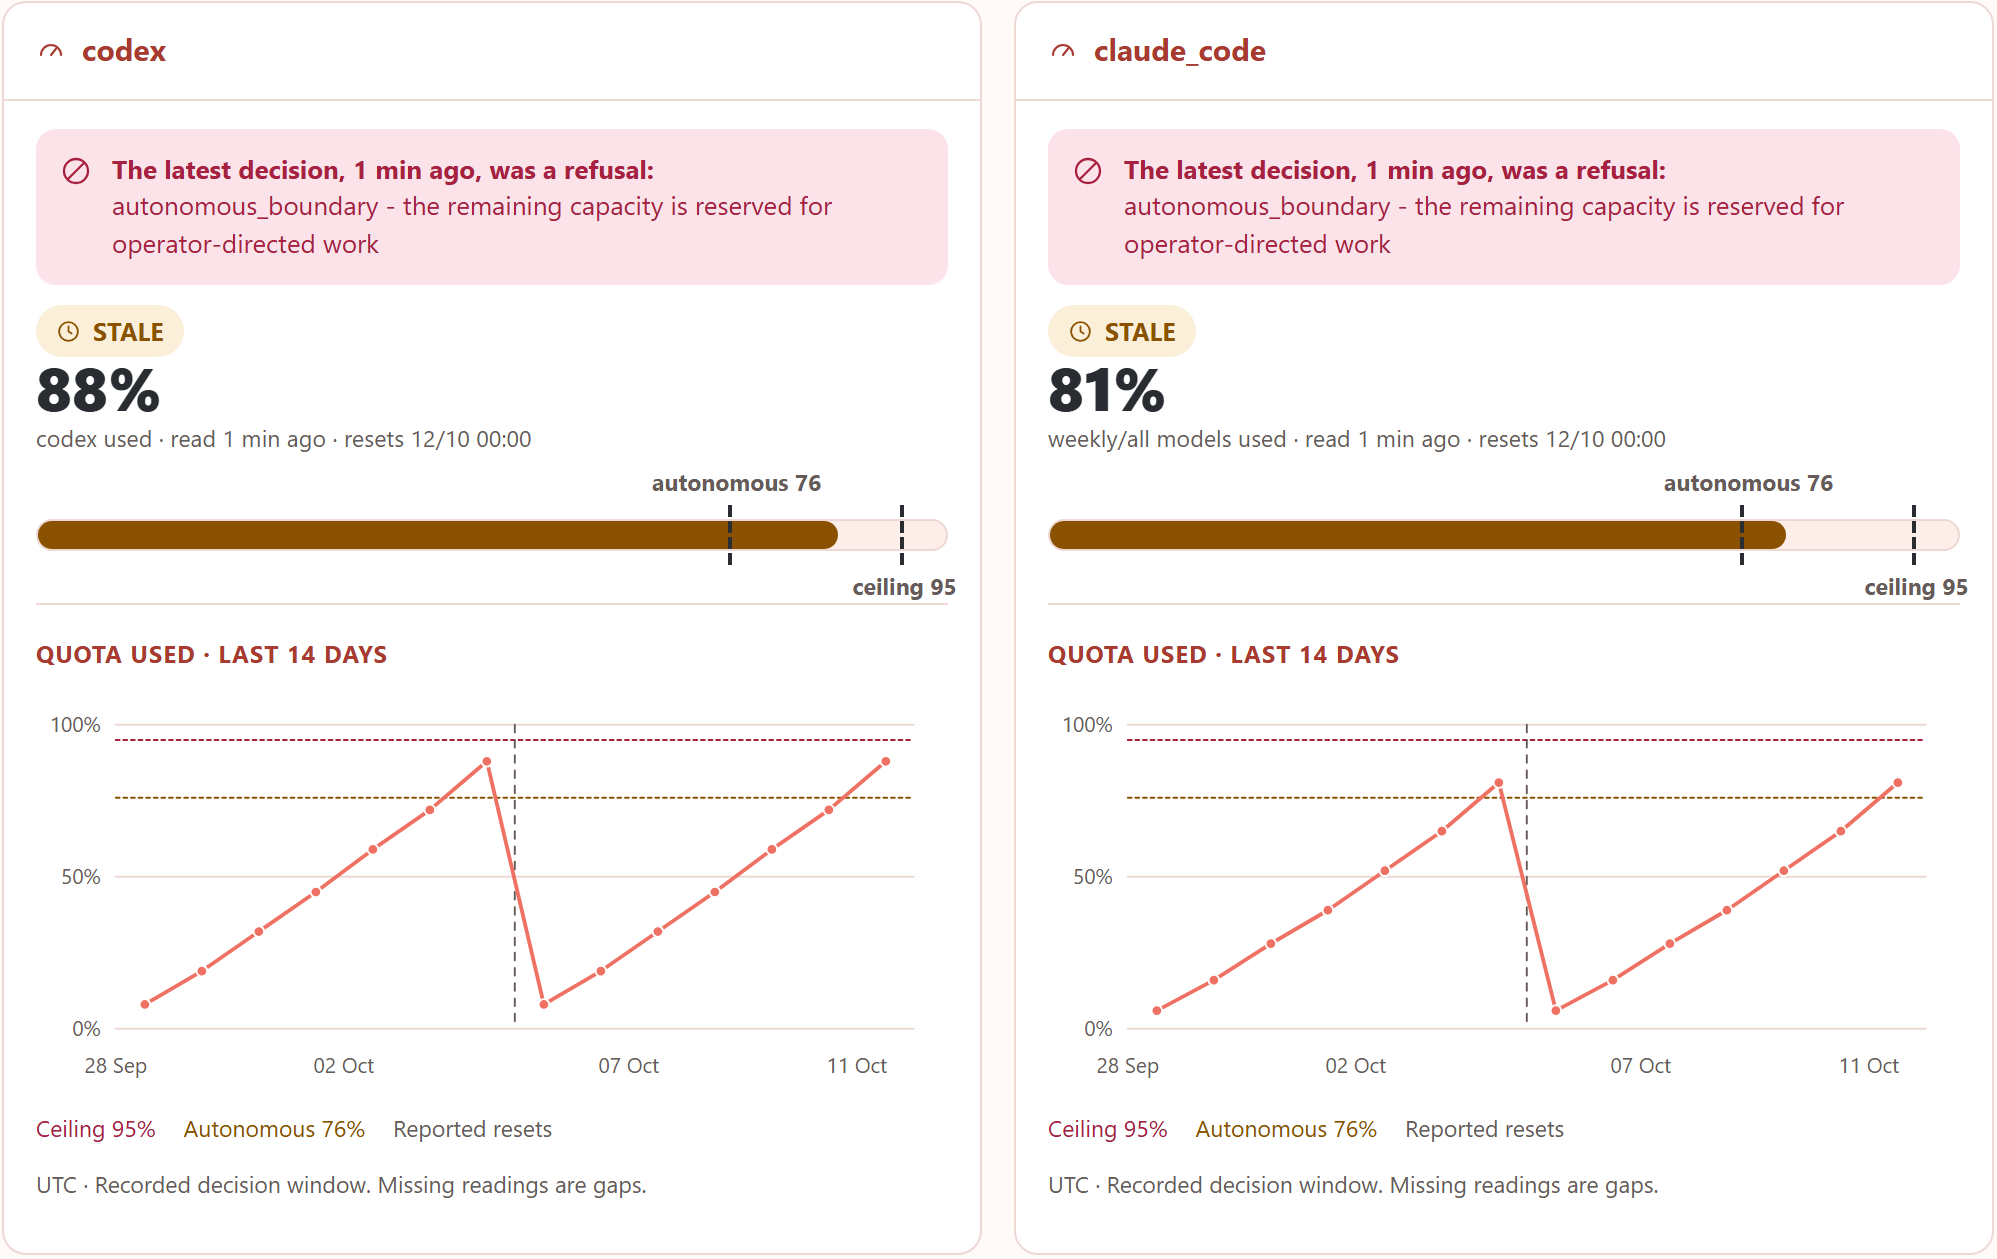
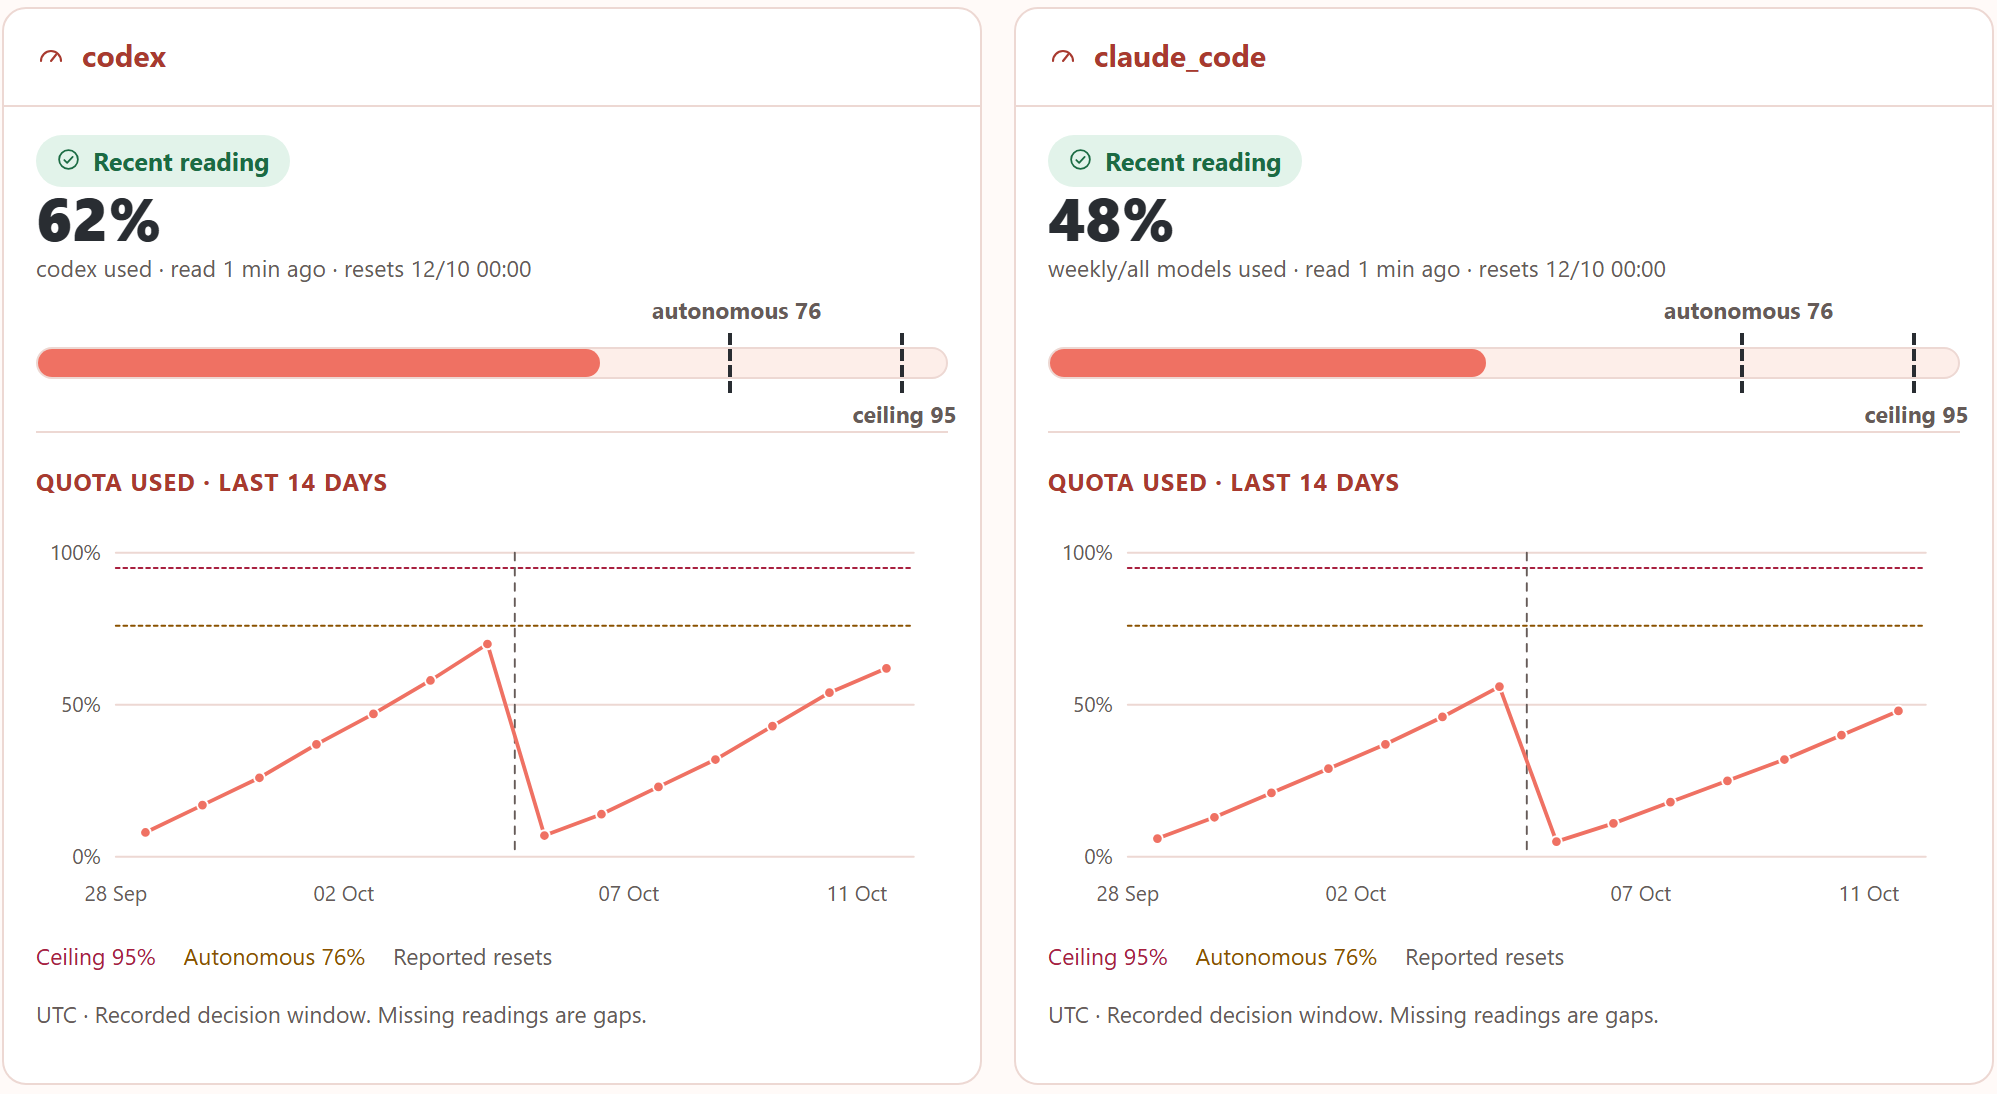
Showcase: fresh LazyCEO demo captures (quota history, project Gantt), English portfolio tree, simpler LazyCEO gallery

diff --git a/tools/prepare_showcase.py b/tools/prepare_showcase.py
@@ -17,13 +17,13 @@ for source in args.ceo.glob("*.png"):
         print(source.name, img.size)
 
 # Coordinates expressed as fractions keep the crops tied to the supplied GUI capture.
-# Gantt: the lower two projects. Program: completed tasks 0–10, without the
-# unrelated remediation status and missing-date task in this synthetic demo.
+# Gantt: the LazyCommittee remediation card (full, and its first 14 rows). Program: tasks 0–10,
+# from the demo store. Brake: the two engine cards with their 14-day quota history.
 for name, filename, bounds in [
-    ("gantt.png", "ceo-gantt.png", (0.075, 0.644, 0.925, 0.994)),
-    ("program-lazycommittee.png", "ceo-program.png", (0.078, 0.134, 0.699, 0.495)),
-    ("gantt.png", "ceo-gantt-detail.png", (0.075, 0.833, 0.925, 0.990)),
-    ("brake.png", "ceo-brake-history.png", (0.077, 0.162, 0.701, 0.640)),
+    ("gantt-committee.png", "ceo-gantt.png", (0.0, 0.0, 1.0, 1.0)),
+    ("program-lazycommittee.png", "ceo-program.png", (0.078, 0.134, 0.699, 0.80)),
+    ("gantt-committee.png", "ceo-gantt-detail.png", (0.0, 0.0, 1.0, 0.63)),
+    ("brake.png", "ceo-brake-history.png", (0.077, 0.160, 0.701, 0.575)),
 ]:
     with Image.open(args.ceo / name) as img:
         w, h = img.size

diff --git a/docs/index.md b/docs/index.md
@@ -240,14 +240,14 @@ The phone interface and MCP server let a person and an agent work on the same pr
 Scheduled daily digests become a weekly world state, asset-class views and a portfolio document.<br />
 Code computes the numbers; the LLM reads results. Freshness, numeric lint and source-map checks gate publication.</p>
 <div class="lb-gallery lb-gallery--reports">
-<figure class=""><a href="assets/showcase/committee-digest-eco.png"><img src="assets/showcase/committee-digest-eco.webp" alt="Real economics digest excerpt with dated values, percentiles, source references and a source list" loading="lazy" /></a><figcaption>Daily economics digest excerpt · each number is dated and sourced, with its percentile.</figcaption></figure><figure class=""><a href="assets/showcase/committee-portfolio-tree.png"><img src="assets/showcase/committee-portfolio-tree.webp" alt="Hierarchical asset-class allocation tree from the portfolio optimizer report" loading="lazy" /></a><figcaption>Portfolio optimizer · allocation hierarchy; some labels are in Italian.</figcaption></figure></div><p class="lb-project-contact">Interested in collaborating? Write to <a href="mailto:lazybridgelabs@gmail.com">lazybridgelabs@gmail.com</a>.</p></article>
+<figure class=""><a href="assets/showcase/committee-digest-eco.png"><img src="assets/showcase/committee-digest-eco.webp" alt="Real economics digest excerpt with dated values, percentiles, source references and a source list" loading="lazy" /></a><figcaption>Daily economics digest excerpt · each number is dated and sourced, with its percentile.</figcaption></figure><figure class=""><a href="assets/showcase/committee-portfolio-tree.png"><img src="assets/showcase/committee-portfolio-tree.webp" alt="Hierarchical asset-class allocation tree from the portfolio optimizer report" loading="lazy" /></a><figcaption>Portfolio optimizer · hierarchical allocation tree: asset classes, regions and the ETFs under each node.</figcaption></figure></div><p class="lb-project-contact">Interested in collaborating? Write to <a href="mailto:lazybridgelabs@gmail.com">lazybridgelabs@gmail.com</a>.</p></article>
 <article class="lb-project" id="lazyceo">
 <div class="lb-project__heading"><h3>LazyCEO</h3><span class="lb-private">Private repository</span></div>
 <p>A CEO agent that runs projects across the workspace and delegates to Codex and Claude Code.<br />
 Durable project records feed a deterministic Gantt and individual Program pages.<br />
 A quota brake for each engine governs autonomous task admission; its GUI shows quota history.</p>
 <div class="lb-gallery lb-gallery--ceo">
-<figure class="lb-gallery__lead"><a href="assets/showcase/ceo-brake.png"><img src="assets/showcase/ceo-brake.webp" alt="LazyCEO Brake page with separate quota-history charts for Codex and Claude Code" loading="lazy" /></a><figcaption>Brake page — rendered by the real GUI, demo data.</figcaption></figure><figure class=""><a href="assets/showcase/ceo-gantt.png"><img src="assets/showcase/ceo-gantt.webp" alt="LazyCEO Gantt excerpt with two project schedules" loading="lazy" /></a><figcaption>Gantt overview excerpt — rendered by the real GUI, demo data.</figcaption></figure><figure class=""><a href="assets/showcase/ceo-program.png"><img src="assets/showcase/ceo-program.webp" alt="LazyCEO Program excerpt with completed tasks and their scheduled dates" loading="lazy" /></a><figcaption>Program page excerpt — rendered by the real GUI, demo data.</figcaption></figure></div><p class="lb-project-contact">Interested in collaborating? Write to <a href="mailto:lazybridgelabs@gmail.com">lazybridgelabs@gmail.com</a>.</p></article>
+<figure class="lb-gallery__lead"><a href="assets/showcase/ceo-brake-history.png"><img src="assets/showcase/ceo-brake-history.webp" alt="LazyCEO quota brake: Codex and Claude Code usage over the last 14 days, with the autonomous and ceiling thresholds and a weekly reset" loading="lazy" /></a><figcaption>Quota brake per engine, with 14 days of history — rendered by the real GUI, demo data.</figcaption></figure><figure class="lb-gallery__lead"><a href="assets/showcase/ceo-gantt-detail.png"><img src="assets/showcase/ceo-gantt-detail.webp" alt="LazyCEO program Gantt: completed tasks, tasks in progress and planned tasks around today" loading="lazy" /></a><figcaption>Project Gantt: done, in progress and planned — rendered by the real GUI, demo data.</figcaption></figure></div><p class="lb-project-contact">Interested in collaborating? Write to <a href="mailto:lazybridgelabs@gmail.com">lazybridgelabs@gmail.com</a>.</p></article>
 
 [More about these projects →](built-with.md)
 

diff --git a/docs/built-with.md b/docs/built-with.md
@@ -21,7 +21,7 @@ Interested in collaborating? Write to [lazybridgelabs@gmail.com](mailto:lazybrid
 
 An AI investment committee built on LazyBridge with Claude Code and Codex as engines. Its dated documents progress from daily digests for geopolitics, economics, markets and central banks to a weekly world state, asset-class views and a portfolio document. Daily and weekly runs are scheduled.
 
-Code computes numeric results and gives the LLM the outputs. Deterministic publication checks cover freshness, numeric lint and source mapping. The real economics digest excerpt cites dated, sourced numbers with percentiles and lists its sources. The optimizer image shows the allocation hierarchy, with some labels in Italian.
+Code computes numeric results and gives the LLM the outputs. Deterministic publication checks cover freshness, numeric lint and source mapping. The real economics digest excerpt cites dated, sourced numbers with percentiles and lists its sources. The optimizer image shows the hierarchical allocation tree: asset classes, regions and the ETFs under each node.
 
 [View the report excerpts →](index.md#lazycommittee)
 
